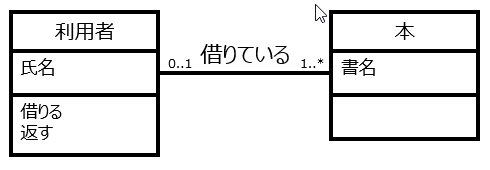
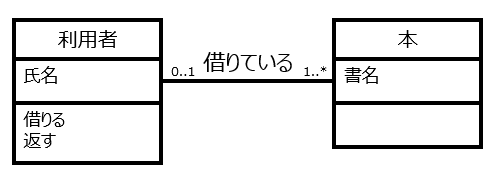
(message omitted)

Changed region(s): [[0.0, 0.0294, 0.9796, 0.9412]]

diff --git a/misc/SystemDesign/relationships.html b/misc/SystemDesign/relationships.html
@@ -3,7 +3,7 @@
 <head><meta charset="utf-8"></head>
 <xmp theme="united" style="display:none;">
 
-クラス図の関連名についての注意を、図書館の本を題材に説明します。
+図書館の本を題材に説明します。
 
 ## 正しい例
 
@@ -27,7 +27,9 @@
 
 ![図4](4.png)
 
-と操作等が追加された。借りている本をさらに借りる、というのは矛盾している。つまり、設計者Aが右側のクラスで表したかったのは（図2と同じく）全ての本であったようである。このような誤解が生じたのは関連名を“借りている”としているからであり、本来は“手続き”とすべきだったのである。
+と操作等が追加された。操作に注目すると、借りている本を返すのは分かるが、借りている本をさらに借りる、というのは矛盾している。つまり、設計者Aが右側のクラスで表したかったのは（2番目の図と同じく）全ての本であったようである。
+
+このような誤解が生じた原因は、設計者Aが関連名を付けるときに、本が借りられた状態のみをイメージして“借りている”としてしまったからである。本来は本が借りられた状態だけでなく、まだ借りられていない状態もイメージした上で、“手続き”等とすべきだったのである。
 
 </xmp>
 <script src="strapdown.js"></script>
